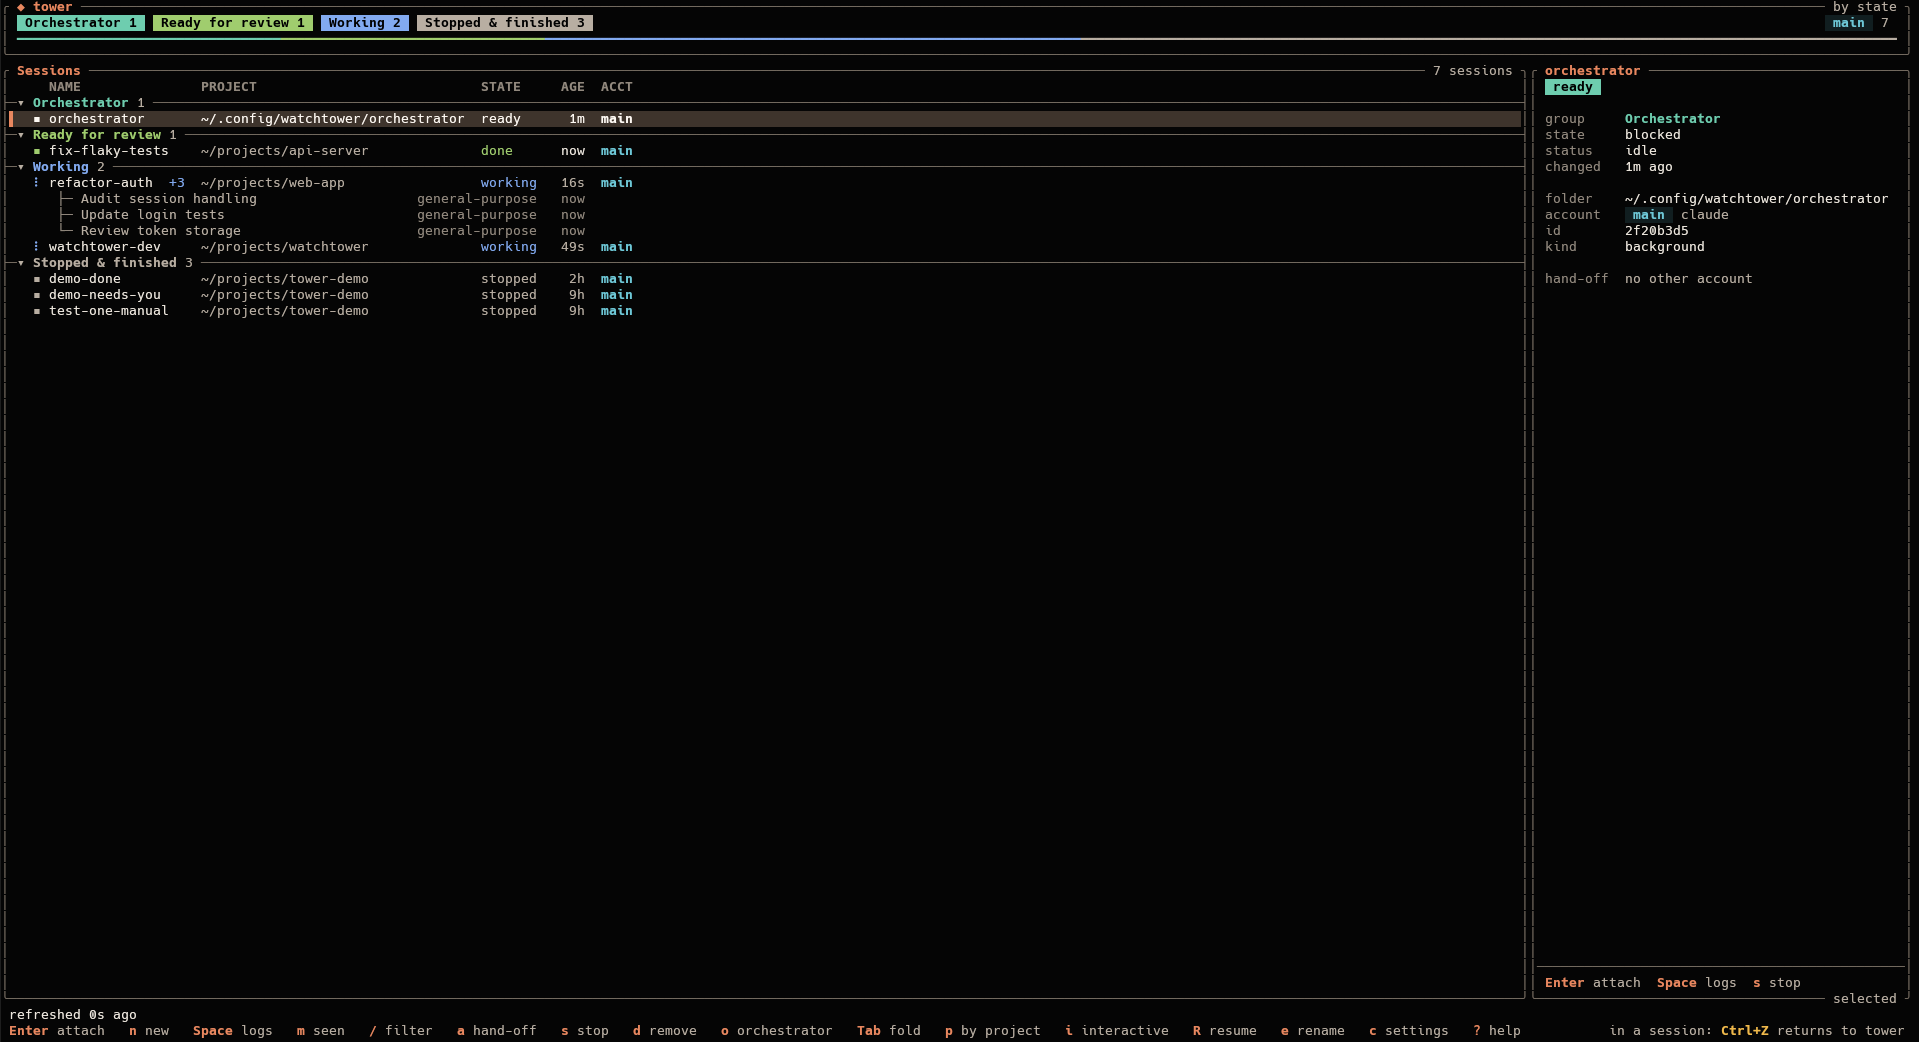
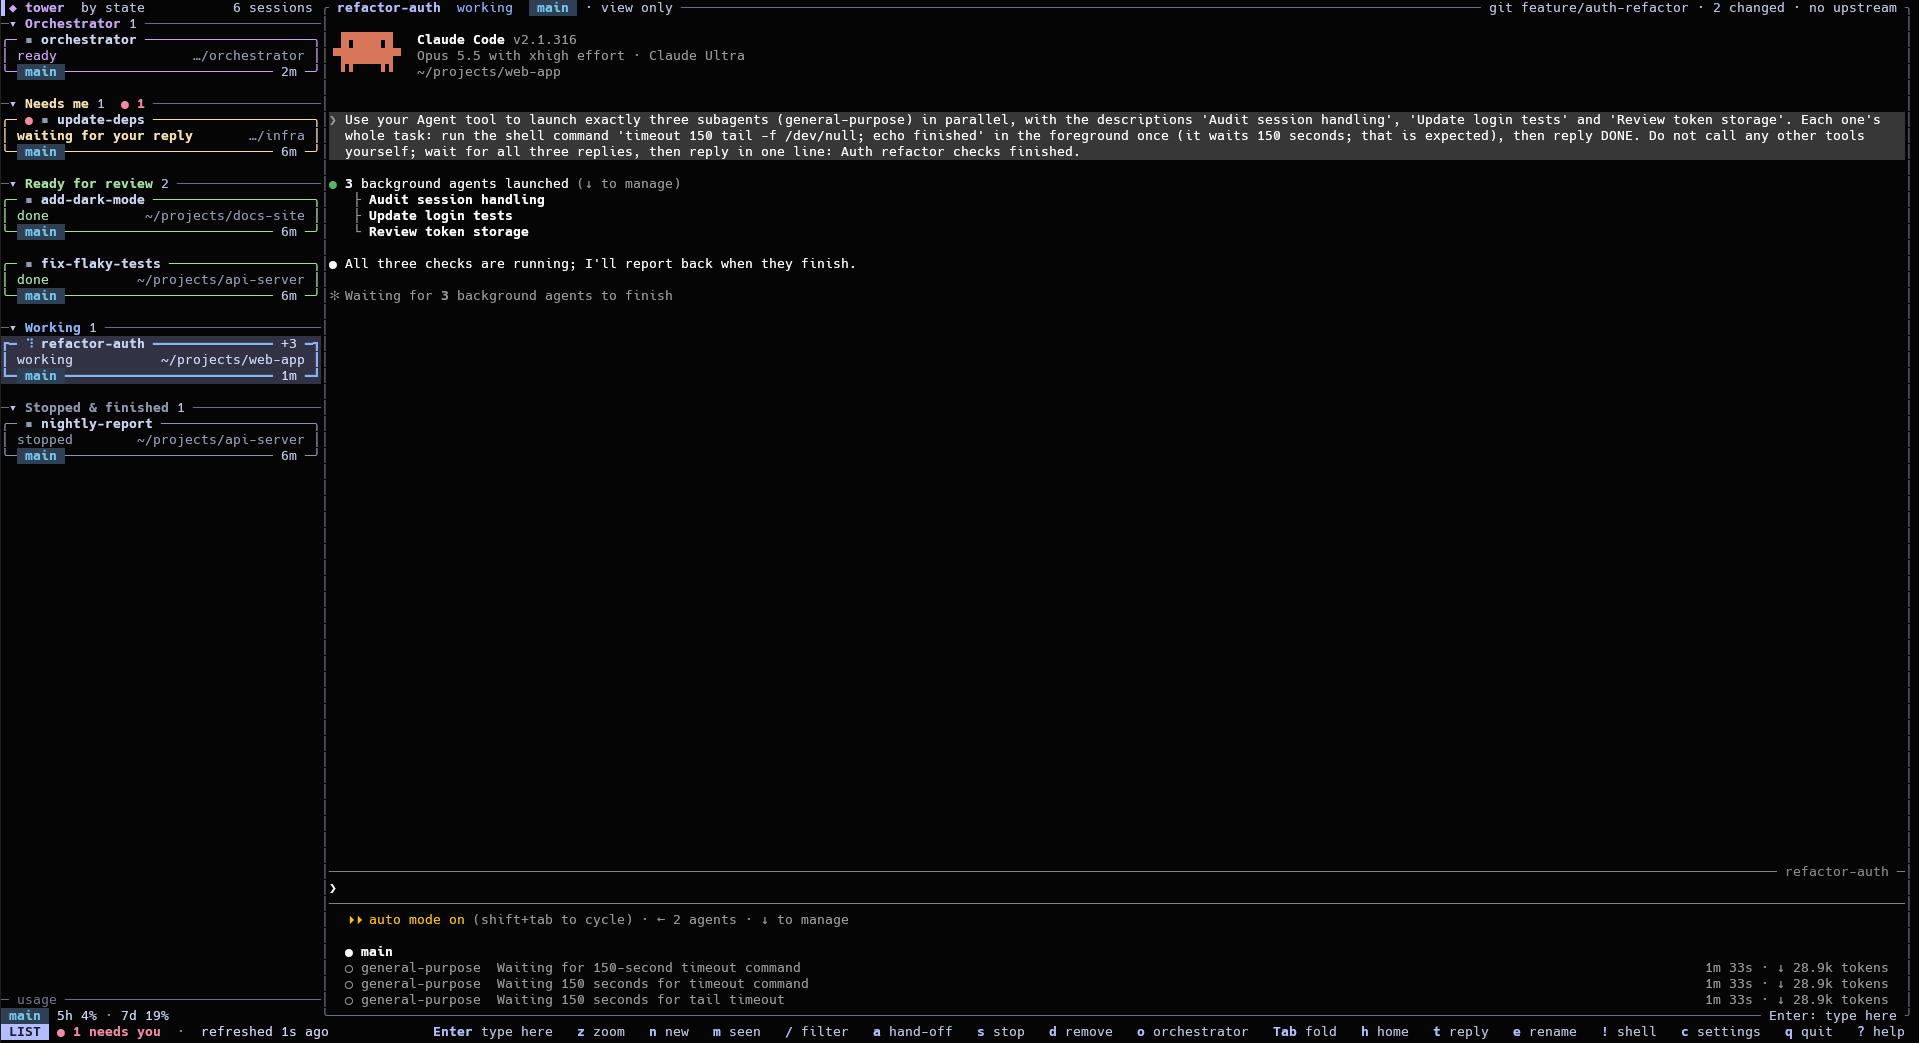
Show the workspace style in the README screenshots
Replaces the main screenshot, adds Home and the new-session dialog, and records that a subagent whose command moves to the background leaves the `+N` count (verified on Claude Code 2.1.316).

diff --git a/README.md b/README.md
@@ -10,7 +10,7 @@ started with `claude --bg`, listed with `claude agents --json --all`, and entere
 inspected, stopped and removed with `claude attach`, `logs`, `stop` and `rm`. Sessions keep
 running when tower exits; tower holds nothing they depend on.
 
-![tower in the dashboard style: sessions grouped by state, a working session with three subagents in a tree under it, and the details panel](assets/screenshot.png)
+![tower in the workspace style: sessions as cards grouped by state on the left, with the selected session's Claude Code terminal on the right](assets/screenshot.png)
 
 What it adds on top:
 
@@ -40,7 +40,9 @@ What it adds on top:
   plugins') with their descriptions and argument hints, as Claude Code's own prompt does
   ([Slash commands](#slash-commands)).
 - **Subagents under their session.** A working session tower started shows its running
-  subagents as a dimmed tree under its row, with a `+N` badge ([0029](doc/0029-tracking-subagents.md)).
+  subagents as a dimmed tree under its row, with a `+N` badge ([0029](doc/0029-tracking-subagents.md)). A subagent
+  whose command runs longer than about 3 minutes leaves that count: Claude Code moves the command
+  to the background and reports the subagent as stopped.
 - **Plan usage, if you turn it on.** With `[usage] show = true` the header shows the
   numbers Claude Code's own `/usage` reports after each account (`5h 24% · 7d 12%`), and
   the details panel when they reset. Off by default and for your information only
@@ -474,10 +476,14 @@ does not run. A terminal attached to the session elsewhere is disconnected.
 ## Workspace style (experimental)
 
 `[ui] style = "workspace"` (also in Settings, `c`) draws the list in a bar and Claude Code's
-real terminal in a pane beside it, where the details panel was. This is the first step of an
-experiment: it has not been tried on many terminals (Windows Terminal, Warp and SSH are
-untested), and Claude Code's fullscreen view it relies on is a research preview
+real terminal in a pane beside it, where the details panel was. It's still experimental: it
+has been used in Warp, locally and over SSH, but other terminals are untested, and Claude
+Code's fullscreen view it relies on is a research preview
 ([0045](doc/0045-workspace-style.md)).
+
+![the Home panel: session counts, sessions that need you, plan usage and the main keys](assets/screenshot-home.png)
+
+![the new-session dialog drawn over the workspace](assets/screenshot-new-session.png)
 
 - Nothing attaches at the start: the pane shows **Home**, with no row selected: the version, the
   counts per group, the sessions that need you, each account's plan usage when `[usage] show` is

diff --git a/doc/reference/claude-code-cli.md b/doc/reference/claude-code-cli.md
@@ -679,6 +679,12 @@ keeps them).
 
 ## Subagents in background sessions
 
+Verified with Claude Code 2.1.316 (2026-10-31): a subagent's foreground shell command still
+running after about 3 minutes moves to the background. The subagent then fires `SubagentStop`,
+and the parent is told `Agent "<description>" is waiting on its own background work`, while the
+command keeps running (the parent's footer says `N shells still running`). So hooks can't tell
+this from a finished subagent, and tower's `+N` drops it even though its command is still going.
+
 Verified with Claude Code 2.1.303:
 
 - A background session has the `Agent` tool and can launch subagents.

diff --git a/doc/0045-workspace-style.md b/doc/0045-workspace-style.md
@@ -343,7 +343,8 @@ attention and everything else still come from the CLI's JSON
 
 ## Open items
 
-- The owner's results on Warp, Windows Terminal and over SSH.
+- Windows Terminal is untested. *Owner's result, 2026-10-31:* the style works in Warp, in WSL and
+  over SSH on a server.
 - Done 2026-10-31: cards, the wheel on the list, clicks on group headers, Home.
 - Done in the second trial, 2026-10-31: `o`, start-and-attach and the rename opening in the pane,
   the whole selected card highlighted, `[ui] card_gap`.
